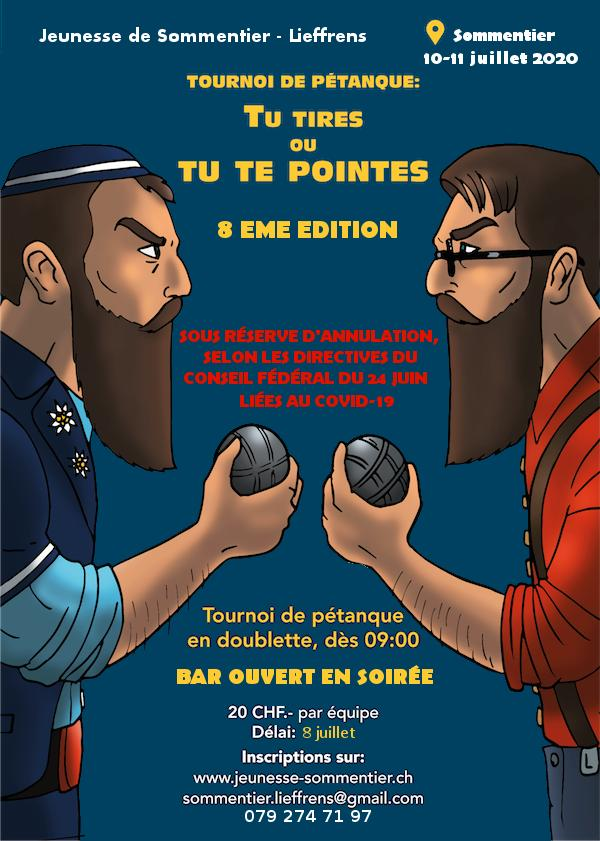
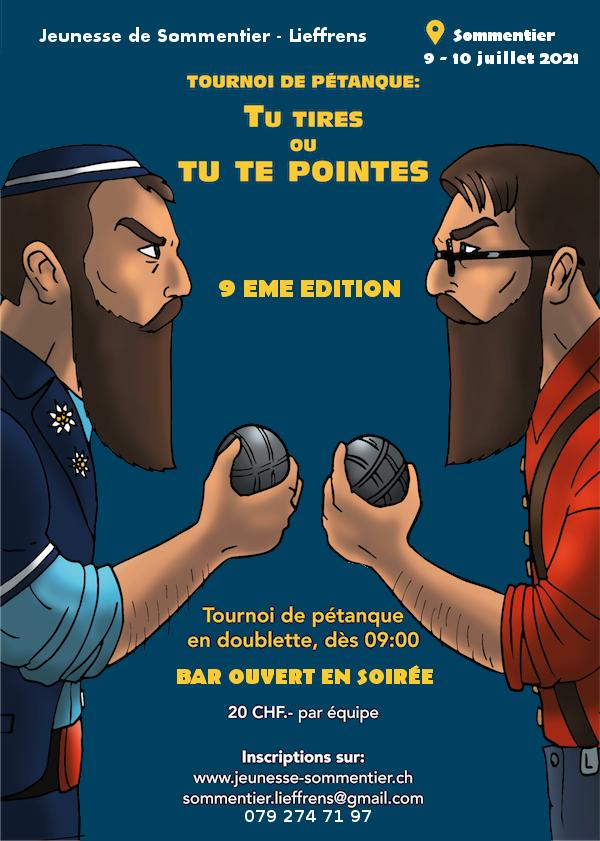
2021

diff --git a/src/index.html b/src/index.html
@@ -32,7 +32,7 @@
 
     <div class="container">
         <div class="row first" id="home">
-            <h1>10 & 11 Juillet 2020 - Tournoi de pétanque</h2>
+            <h1>9 & 10 Juillet 2021 - Tournoi de pétanque</h2>
         </div>
         <div class="row">
             <div class="col-sm">
